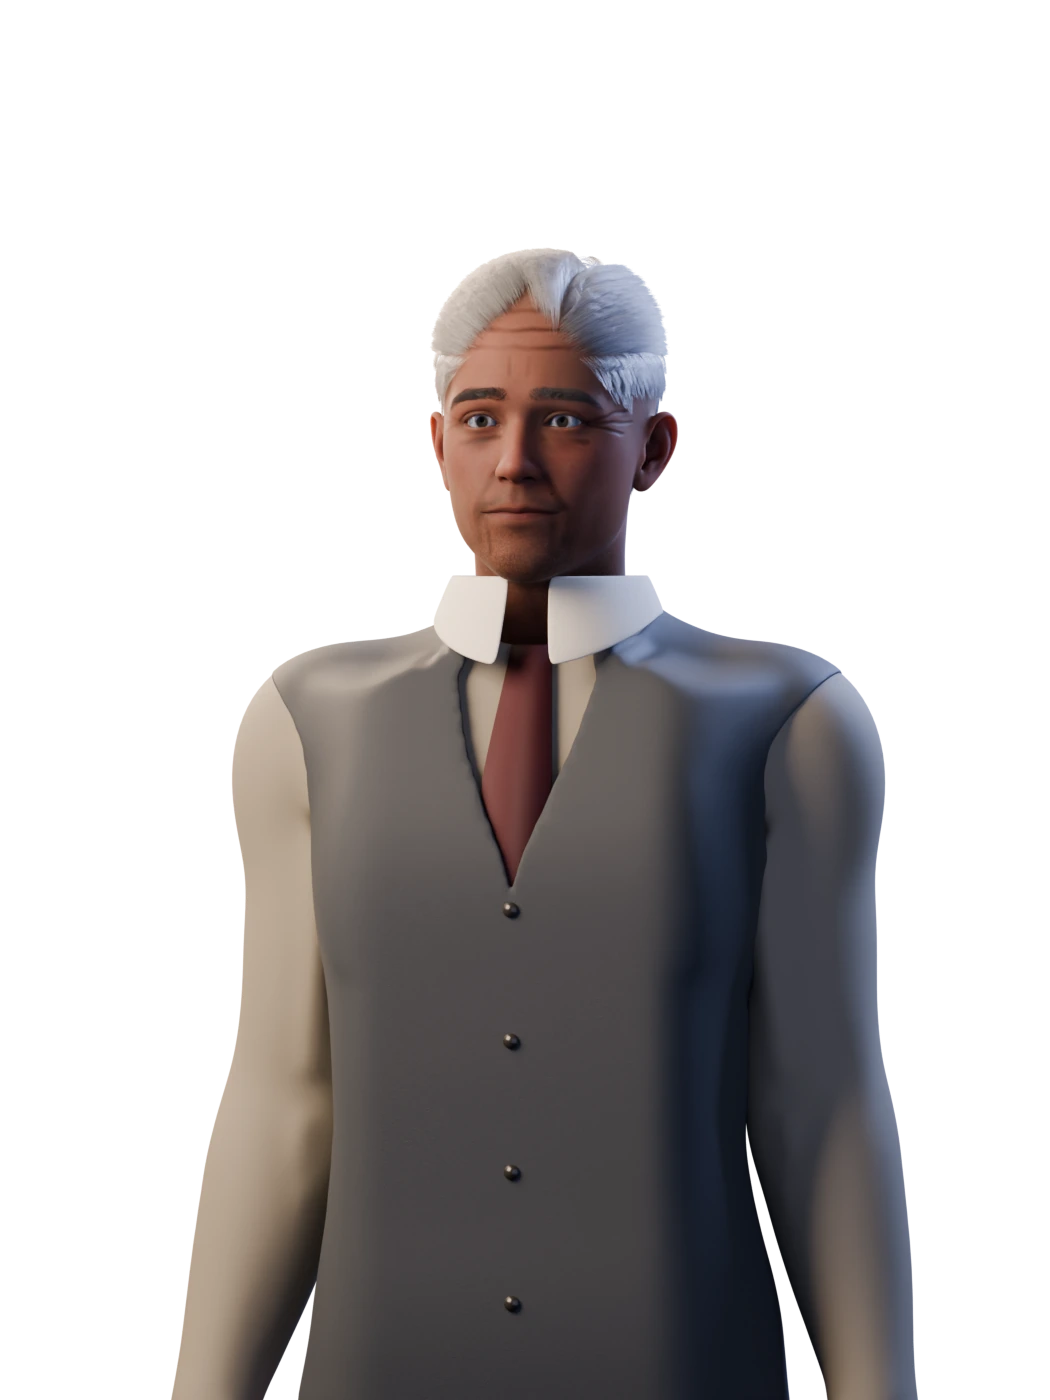
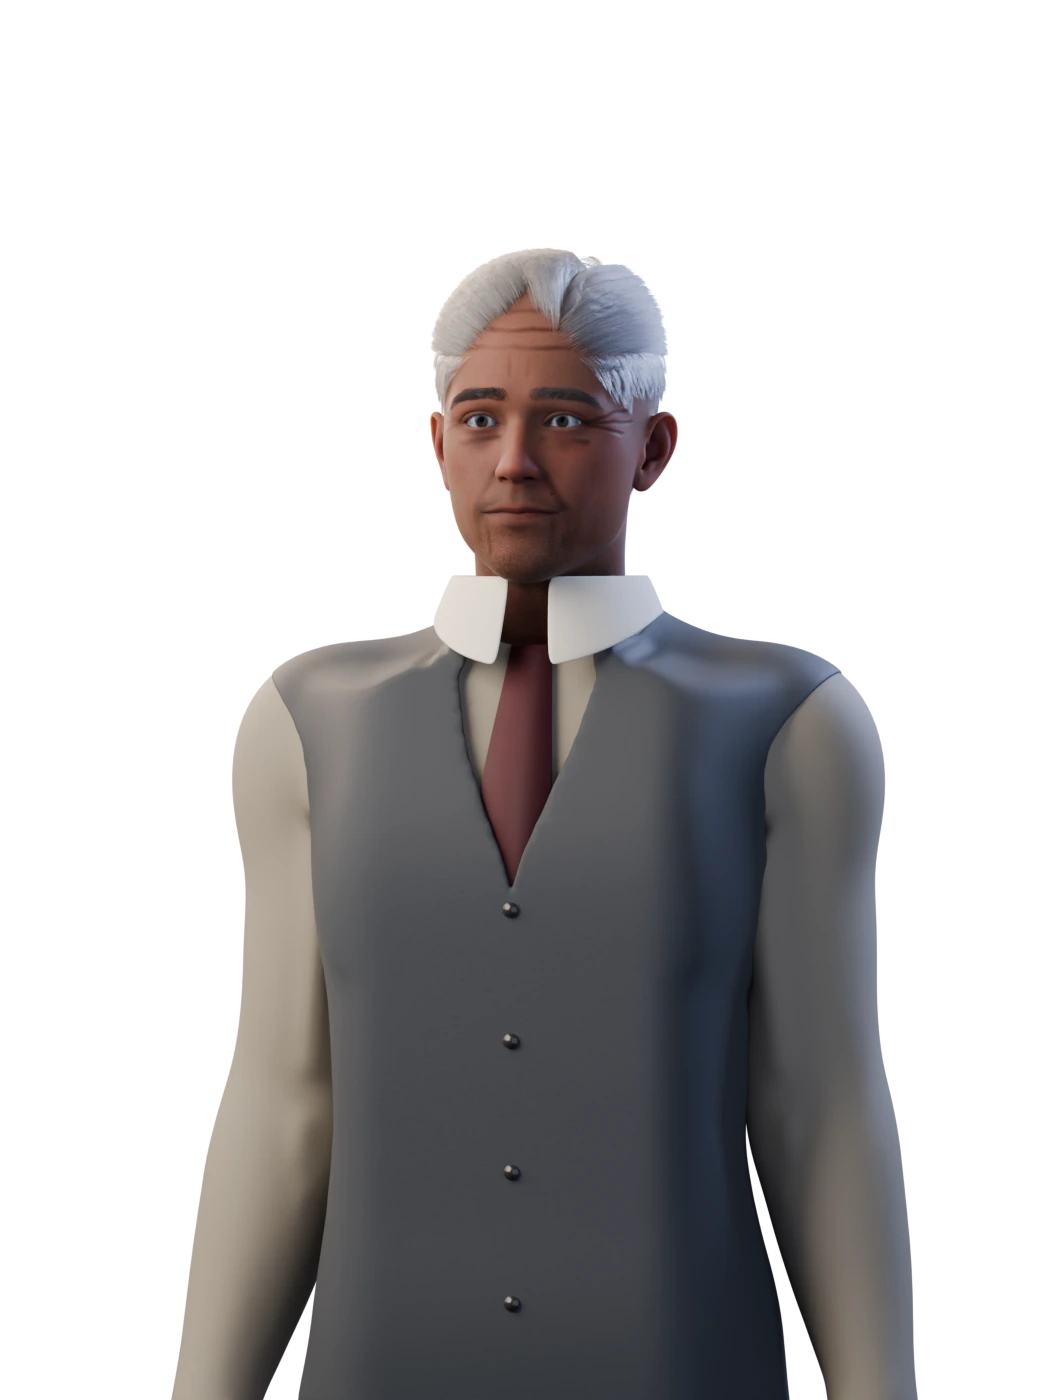
Art: portrait lighting for the Daz sprites
--light soft: a larger softer key from the side and above, a real fill, a
gentle kicker and hair light, at half power (--lightpower). Skin is richer
and more even than the old hard warm key, eyes keep their lid shadows (a key
near the lens axis made them look wide and glassy). Eye-opening back to
0.25.

diff --git a/art/tfo_daz.py b/art/tfo_daz.py
@@ -564,14 +564,27 @@ eye = sum(evs, Vector((0, 0, 0))) / len(evs)
 yaw = math.radians(float(args[args.index("--yaw") + 1]) if "--yaw" in args else 18.0)   # three-quarter view
 dist, aim_drop = (0.45, 0.0) if "--close" in args else (1.3, 0.12)
 off = Vector((math.sin(yaw) * dist, -math.cos(yaw) * dist, 0.03))
-lib.world_gradient("#262b3d", "#0b0d14", strength=0.45)
-key_dir = Vector((-math.sin(yaw + 0.75), -math.cos(yaw + 0.75), 0))        # from the camera's left
-lib.light("key", "AREA", tuple(eye + key_dir * 1.3 + Vector((0, 0, 0.55))), 210, "#ffe2c8", size=1.1, target=tuple(eye))
-lib.light("fill", "AREA", tuple(eye + Vector((math.sin(yaw) * 1.4 + 0.6, -1.2, -0.15))), 28, "#c4ceff", size=1.8,
-          target=tuple(eye))
-lib.light("rim", "AREA", tuple(eye + Vector((0.75, 0.9, 0.45))), 110, "#a9bcff", size=0.5, target=tuple(eye))
-lib.light("rim2", "AREA", tuple(eye + Vector((-0.8, 0.8, 0.35))), 55, "#ffd9b8", size=0.5, target=tuple(eye))
-lib.light("hair", "AREA", tuple(eye + Vector((0.0, 0.6, 1.1))), 18, "#fff0dc", size=0.9, target=tuple(eye))
+lighting = opt("--light", "moody")
+LP = float(opt("--lightpower", 1.0))
+if lighting == "soft":
+    # Beauty-portrait lighting: one big soft key close to the lens axis, a real fill, a gentle kicker, and a hair light.
+    lib.world_gradient("#3a3f55", "#171a26", strength=0.7)
+    key_dir = Vector((-math.sin(yaw + 0.8), -math.cos(yaw + 0.8), 0))
+    lib.light("key", "AREA", tuple(eye + key_dir * 1.4 + Vector((0, 0, 0.62))), 440 * LP, "#fff0e2", size=1.6, target=tuple(eye))
+    lib.light("fill", "AREA", tuple(eye + Vector((math.sin(yaw) * 1.4 + 0.9, -1.4, -0.1))), 120 * LP, "#d9e2ff", size=2.4,
+              target=tuple(eye))
+    lib.light("rim", "AREA", tuple(eye + Vector((0.8, 0.9, 0.4))), 90, "#b5c6ff", size=0.6, target=tuple(eye))
+    lib.light("rim2", "AREA", tuple(eye + Vector((-0.85, 0.8, 0.35))), 45, "#ffdcc0", size=0.6, target=tuple(eye))
+    lib.light("hair", "AREA", tuple(eye + Vector((0.0, 0.6, 1.1))), 14, "#fff0dc", size=0.9, target=tuple(eye))
+else:
+    lib.world_gradient("#262b3d", "#0b0d14", strength=0.45)
+    key_dir = Vector((-math.sin(yaw + 0.75), -math.cos(yaw + 0.75), 0))        # from the camera's left
+    lib.light("key", "AREA", tuple(eye + key_dir * 1.3 + Vector((0, 0, 0.55))), 210, "#ffe2c8", size=1.1, target=tuple(eye))
+    lib.light("fill", "AREA", tuple(eye + Vector((math.sin(yaw) * 1.4 + 0.6, -1.2, -0.15))), 28, "#c4ceff", size=1.8,
+              target=tuple(eye))
+    lib.light("rim", "AREA", tuple(eye + Vector((0.75, 0.9, 0.45))), 110, "#a9bcff", size=0.5, target=tuple(eye))
+    lib.light("rim2", "AREA", tuple(eye + Vector((-0.8, 0.8, 0.35))), 55, "#ffd9b8", size=0.5, target=tuple(eye))
+    lib.light("hair", "AREA", tuple(eye + Vector((0.0, 0.6, 1.1))), 18, "#fff0dc", size=0.9, target=tuple(eye))
 sprite = "--sprite" in args
 if sprite:
     # Same framing as the game's existing character sprites: orthographic, head and torso, 1050x1400, transparent.
